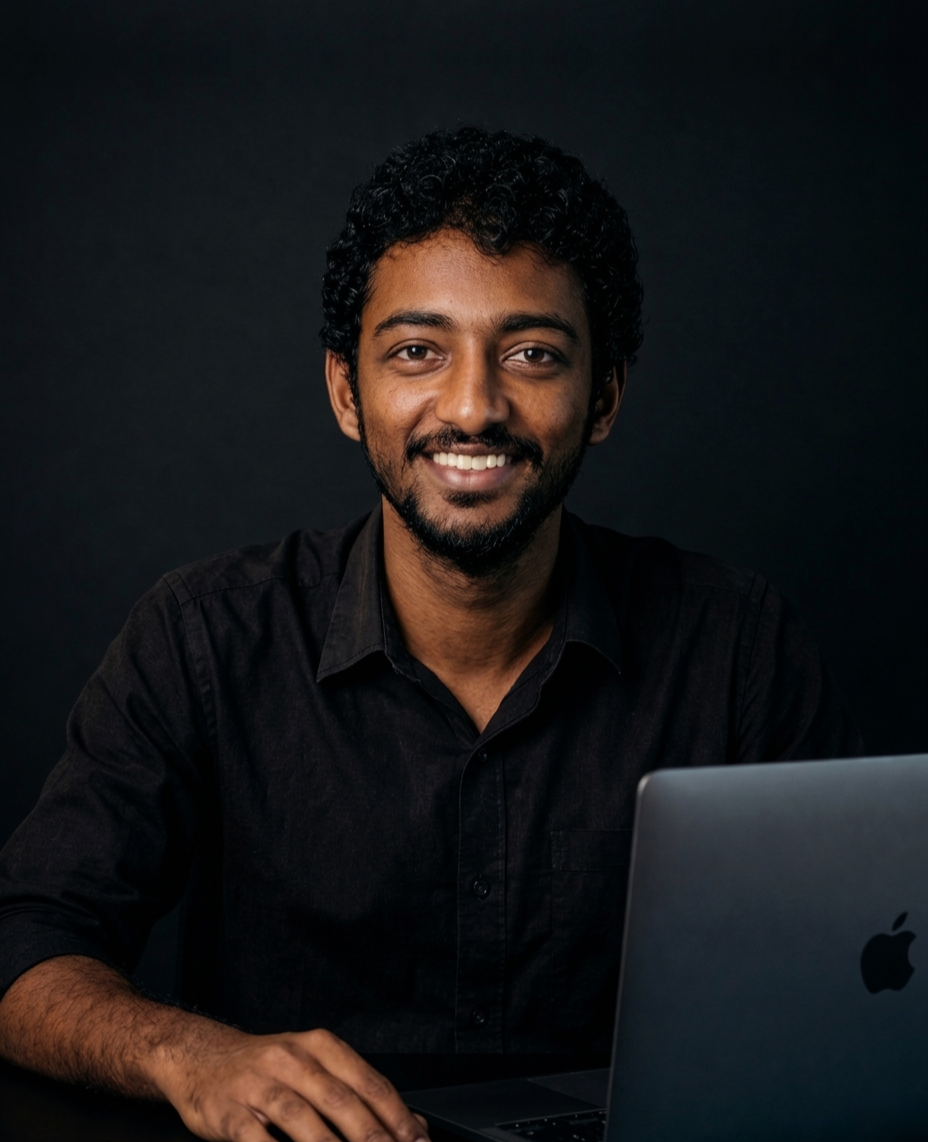
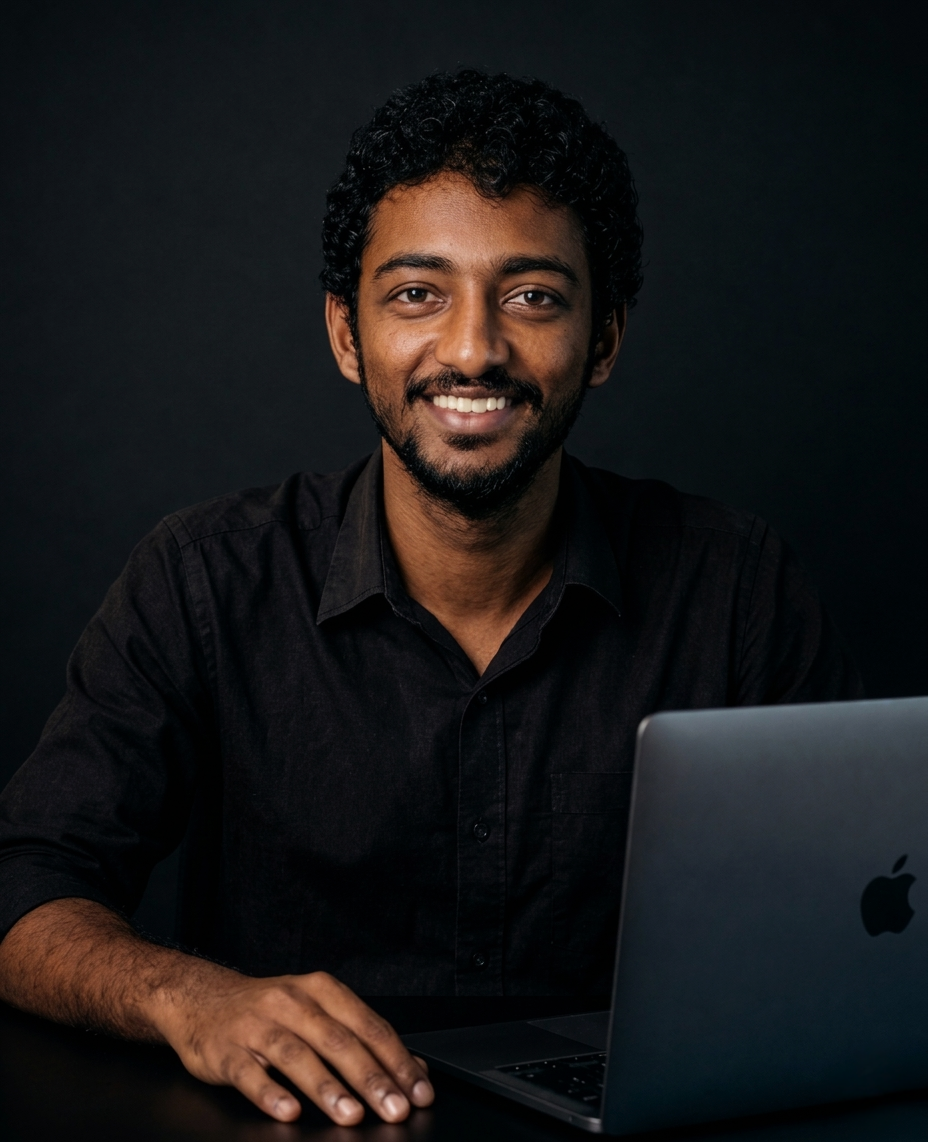
Organize: Move assets, branding, and docs to folders

diff --git a/src/App.tsx b/src/App.tsx
@@ -103,7 +103,7 @@ const Hero = () => (
         transition={{ duration: 0.6, delay: 0.2 }}
         className="relative w-full max-w-md mx-auto lg:max-w-none"
       >
-        <div className="aspect-[1080/1350] rounded-[2rem] overflow-hidden border border-white/10 relative group bg-white/5">
+        <div className="aspect-[928/1142] rounded-[2rem] overflow-hidden border border-white/10 relative group bg-white/5">
           <img 
             src="https://raw.githubusercontent.com/gedionzewdu/portfolio/main/assets/Gedi%20Office%20Shot.png" 
             alt="Gedion Zewdu" 
